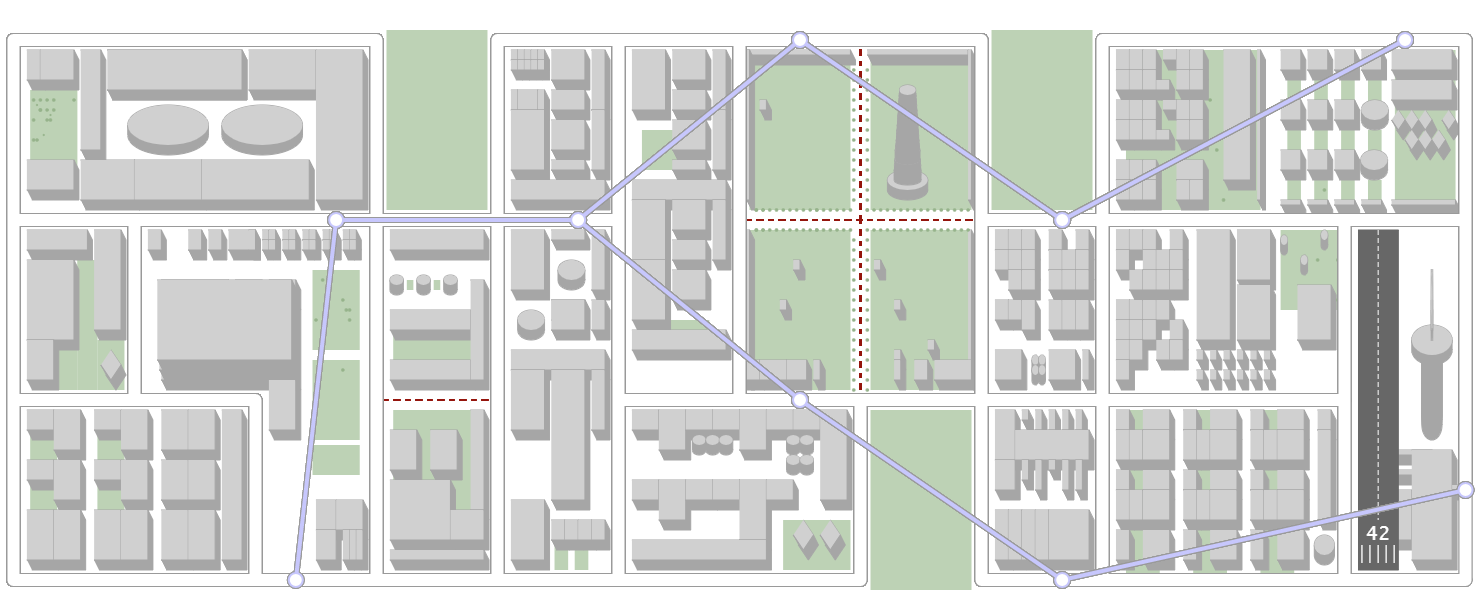
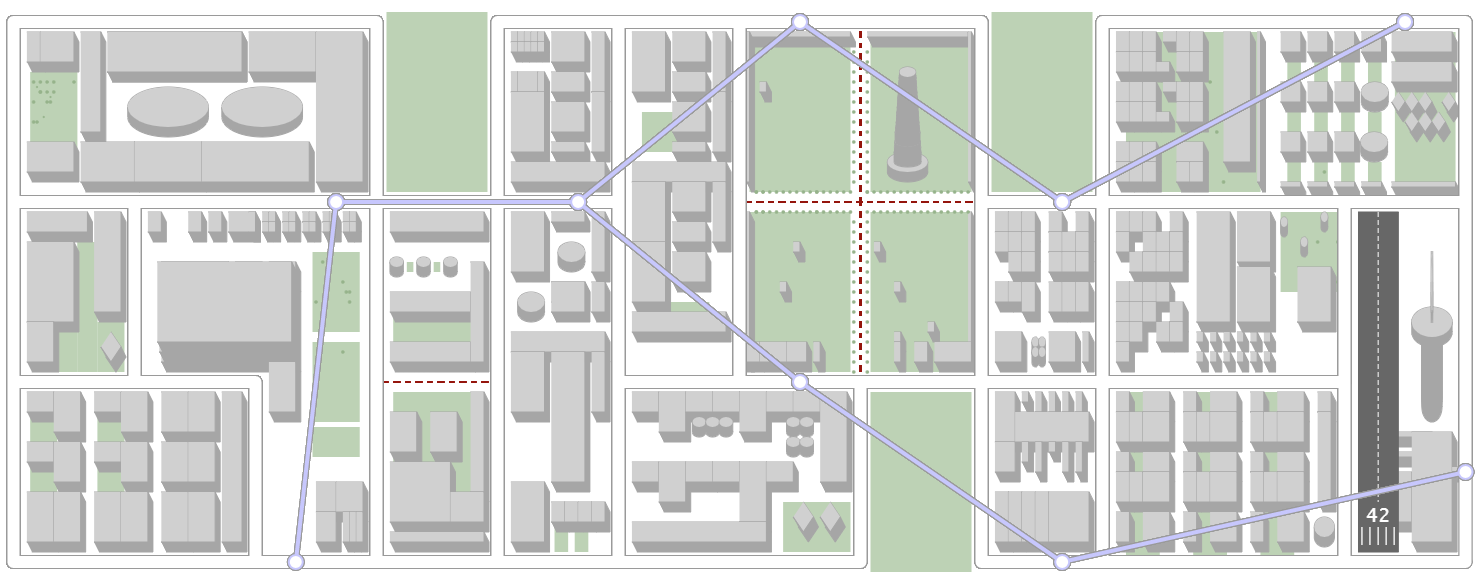
Fix the path drawing

diff --git a/js/algo.js b/js/algo.js
@@ -174,11 +174,13 @@ function DrawPath(start, end)
     var hf = c.height / 6;
     var ctx = c.getContext("2d");
     ctx.beginPath();
-    ctx.moveTo(0.2 * wf, 0.2 * hf + 4);
-    ctx.lineTo(0.2 * wf, hf * 2.2);
-    ctx.lineTo(9.2 * wf, hf * 2.2);
-    ctx.lineTo(9.2 * wf, hf * 4);
-    ctx.lineTo(20 * wf, hf * 4);
+
+    ctx.moveTo(9.2 * wf, (5.8 - 2.1) * hf);
+    ctx.lineTo(8.6 * wf, (5.8 - 3.8) * hf);
+    ctx.lineTo(11.9 * wf, (5.8 - 5.6) * hf);
+    ctx.lineTo(15.8 * wf, (5.8 - 3.8) * hf);
+    ctx.lineTo(20.9 * wf, (5.8 - 5.6) * hf);
+
     ctx.strokeStyle = "#FF0000";
     ctx.stroke();
 }
